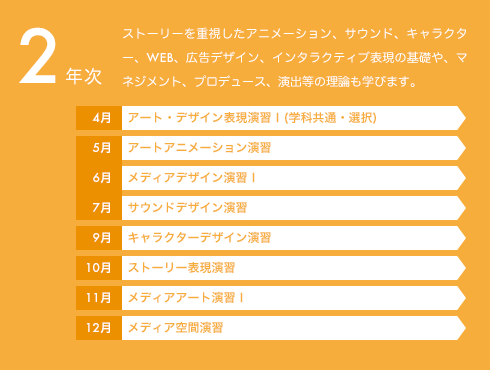
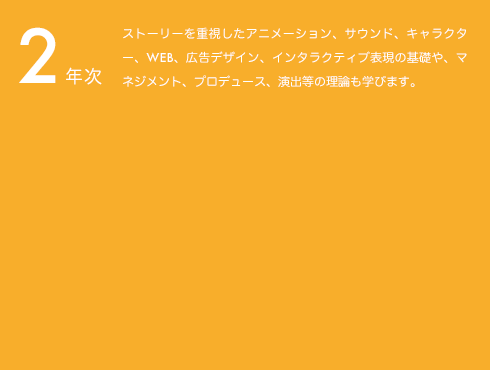
academics course

diff --git a/academics/index.html b/academics/index.html
@@ -84,11 +84,79 @@
         <div class="image2">
           <img src="images/image02_1_p.png" alt="" />
         </div>
-        <div class="image2">
+        <div class="image2 acad_detail">
           <img src="images/image02_1_t.png" alt="" />
+          <ul class="acad_list acad_01">
+            <li class="clearfix">
+              <div class="acad_month">4月</div>
+              <a href="#" class="btn_acad">宙宙教授: 機器人與湯瑪仕</a>
+            </li>
+            <li class="clearfix">
+              <div class="acad_month">5月</div>
+              <a href="#" class="btn_acad">宙宙教授: 機器人與湯瑪仕</a>
+            </li>
+            <li class="clearfix">
+              <div class="acad_month">6月</div>
+              <a href="#" class="btn_acad">宙宙教授: 機器人與湯瑪仕</a>
+            </li>
+            <li class="clearfix">
+              <div class="acad_month">7月</div>
+              <a href="#" class="btn_acad">宙宙教授: 機器人與湯瑪仕</a>
+            </li>
+            <li class="clearfix">
+              <div class="acad_month">9月</div>
+              <a href="#" class="btn_acad">宙宙教授: 機器人與湯瑪仕</a>
+            </li>
+            <li class="clearfix">
+              <div class="acad_month">10月</div>
+              <a href="#" class="btn_acad">宙宙教授: 機器人與湯瑪仕</a>
+            </li>
+            <li class="clearfix">
+              <div class="acad_month">11月</div>
+              <a href="#" class="btn_acad">宙宙教授: 機器人與湯瑪仕</a>
+            </li>
+            <li class="clearfix">
+              <div class="acad_month">12月</div>
+              <a href="#" class="btn_acad">宙宙教授: 機器人與湯瑪仕</a>
+            </li>
+          </ul>
         </div>
-        <div class="image2">
+        <div class="image2 acad_detail">
           <img src="images/image02_2_t.png" alt="" />
+          <ul class="acad_list acad_02">
+            <li class="clearfix">
+              <div class="acad_month">4月</div>
+              <a href="#" class="btn_acad">宙宙教授: 機器人與湯瑪仕</a>
+            </li>
+            <li class="clearfix rowspan02">
+              <div class="acad_month">5月</div>
+              <a href="#" class="btn_acad">宙宙教授: 機器人與湯瑪仕</a>
+            </li>
+            <li class="clearfix rowspan02">
+              <div class="acad_month">6月</div>
+              <a href="#" class="btn_acad">宙宙教授: 機器人與湯瑪仕</a>
+            </li>
+            <li class="clearfix">
+              <div class="acad_month">7月</div>
+              <a href="#" class="btn_acad">宙宙教授: 機器人與湯瑪仕</a>
+            </li>
+            <li class="clearfix">
+              <div class="acad_month">9月</div>
+              <a href="#" class="btn_acad">宙宙教授: 機器人與湯瑪仕</a>
+            </li>
+            <li class="clearfix">
+              <div class="acad_month">10月</div>
+              <a href="#" class="btn_acad">宙宙教授: 機器人與湯瑪仕</a>
+            </li>
+            <li class="clearfix">
+              <div class="acad_month">11月</div>
+              <a href="#" class="btn_acad">宙宙教授: 機器人與湯瑪仕</a>
+            </li>
+            <li class="clearfix">
+              <div class="acad_month">12月</div>
+              <a href="#" class="btn_acad">宙宙教授: 機器人與湯瑪仕</a>
+            </li>
+          </ul>
         </div>
         <div class="image2">
           <img src="images/image02_2_p.png" alt="" />
@@ -96,11 +164,51 @@
         <div class="image2">
           <img src="images/image02_3_p.png" alt="" />
         </div>
-        <div class="image2">
+        <div class="image2 acad_detail">
           <img src="images/image02_3_t.png" alt="" />
+          <ul class="acad_list acad_03">
+            <li class="clearfix">
+              <div class="acad_month">4月</div>
+              <a href="#" class="btn_acad">宙宙教授: 機器人與湯瑪仕</a>
+            </li>
+            <li class="clearfix">
+              <div class="acad_month">5月</div>
+              <a href="#" class="btn_acad">宙宙教授: 機器人與湯瑪仕</a>
+            </li>
+            <li class="clearfix">
+              <div class="acad_month">6月</div>
+              <a href="#" class="btn_acad">宙宙教授: 機器人與湯瑪仕</a>
+            </li>
+            <li class="clearfix">
+              <div class="acad_month">7月</div>
+              <a href="#" class="btn_acad">宙宙教授: 機器人與湯瑪仕</a>
+            </li>
+            <li class="clearfix">
+              <div class="acad_month">9月</div>
+              <a href="#" class="btn_acad">宙宙教授: 機器人與湯瑪仕</a>
+            </li>
+            <li class="clearfix">
+              <div class="acad_month">10月</div>
+              <a href="#" class="btn_acad">宙宙教授: 機器人與湯瑪仕</a>
+            </li>
+            <li class="clearfix rowspan03">
+              <div class="acad_month">11月<br>12月</div>
+              <a href="#" class="btn_acad">宙宙教授: 機器人與湯瑪仕</a>
+            </li>
+          </ul>
         </div>
-        <div class="image2">
+        <div class="image2 acad_detail">
           <img src="images/image02_4_t.png" alt="" />
+          <ul class="acad_list acad_04">
+            <li class="clearfix">
+              <div class="acad_month">4月<br>5月<br>6月<br>7月</div>
+              <a href="#" class="btn_acad">宙宙教授: 機器人與湯瑪仕</a>
+            </li>
+            <li class="clearfix">
+              <div class="acad_month">9月<br>10月<br>11月<br>12月</div>
+              <a href="#" class="btn_acad">宙宙教授: 機器人與湯瑪仕</a>
+            </li>
+          </ul>
         </div>
         <div class="image2">
           <img src="images/image02_4_p.png" alt="" />

diff --git a/css/sub2.css b/css/sub2.css
@@ -109,3 +109,91 @@ div.line {
 	margin-right: auto;
 	margin-left: auto;
 }
+.acad_detail {
+	position: relative;
+}
+.acad_list {
+	position: absolute;
+	left: 80px;
+	top: 106px;
+}
+.acad_list.acad_02, .acad_list.acad_04 {
+	left: 76px;
+}
+.acad_list li {
+	line-height: 24px;
+	font-size: 12px;
+	margin-bottom: 6px;
+}
+.acad_list li.rowspan02 {
+	margin-bottom: 0;
+}
+.acad_list .acad_month {
+	float: left;
+	background: #c4475a;
+	color: #fff;
+	width: 35px;
+	height: 24px;
+	padding-right: 11px;
+	text-align: right;
+}
+.rowspan02 .acad_month {
+	height: 30px;
+}
+.rowspan03 .acad_month {
+	height: 53px;
+	line-height: 26px;
+}
+.acad_02 .acad_month {
+	background: #ed9000;
+}
+.acad_03 .acad_month {
+	background: #c4475a;
+}
+.acad_04 .acad_month {
+	background: #187fc4;
+	height: 114px;
+	line-height: 28px;
+}
+.acad_list a.btn_acad {
+	float: left;
+	display: block;
+	background: #fff;
+	width: 329px;
+	text-align: left;
+	padding-left: 6px;
+	position: relative;
+}
+.acad_list a.btn_acad:after {
+	content: " ";
+	height: 24px;
+	width: 9px;
+	background: url(../academics/images/btn_arrow01.png) no-repeat;
+	position: absolute;
+	right: -9px;
+}
+.rowspan03 a.btn_acad {
+	height: 53px;
+	line-height: 53px;
+}
+.rowspan03 a.btn_acad:after {
+	height: 53px;
+	background: url(../academics/images/btn_arrow03.png) no-repeat;
+}
+.acad_01 a.btn_acad {
+	color: #eb5269;
+}
+.acad_02 a.btn_acad {
+	color: #f6ad3c;
+}
+.acad_03 a.btn_acad {
+	color: #e9546b;
+}
+.acad_04 a.btn_acad {
+	color: #106faf;
+	height: 114px;
+	line-height: 114px;
+}
+.acad_04 a.btn_acad:after {
+	display: none;
+}

diff --git a/css/main.css b/css/main.css
@@ -685,3 +685,24 @@ strong {
 .type3 img {
 	max-width: 100% !important;
 }
+.clearfix:after {
+	clear: both;
+	content: '.';
+	display: block;
+	height: 0;
+	overflow: hidden;
+}
+
+.clearfix {
+	display: inline-block;
+}
+
+/* Hides from IE-mac \*/
+* html .clearfix {
+	height: 1%;
+}
+
+.clearfix {
+	display: block;
+}
+/* End hide from IE-mac */
